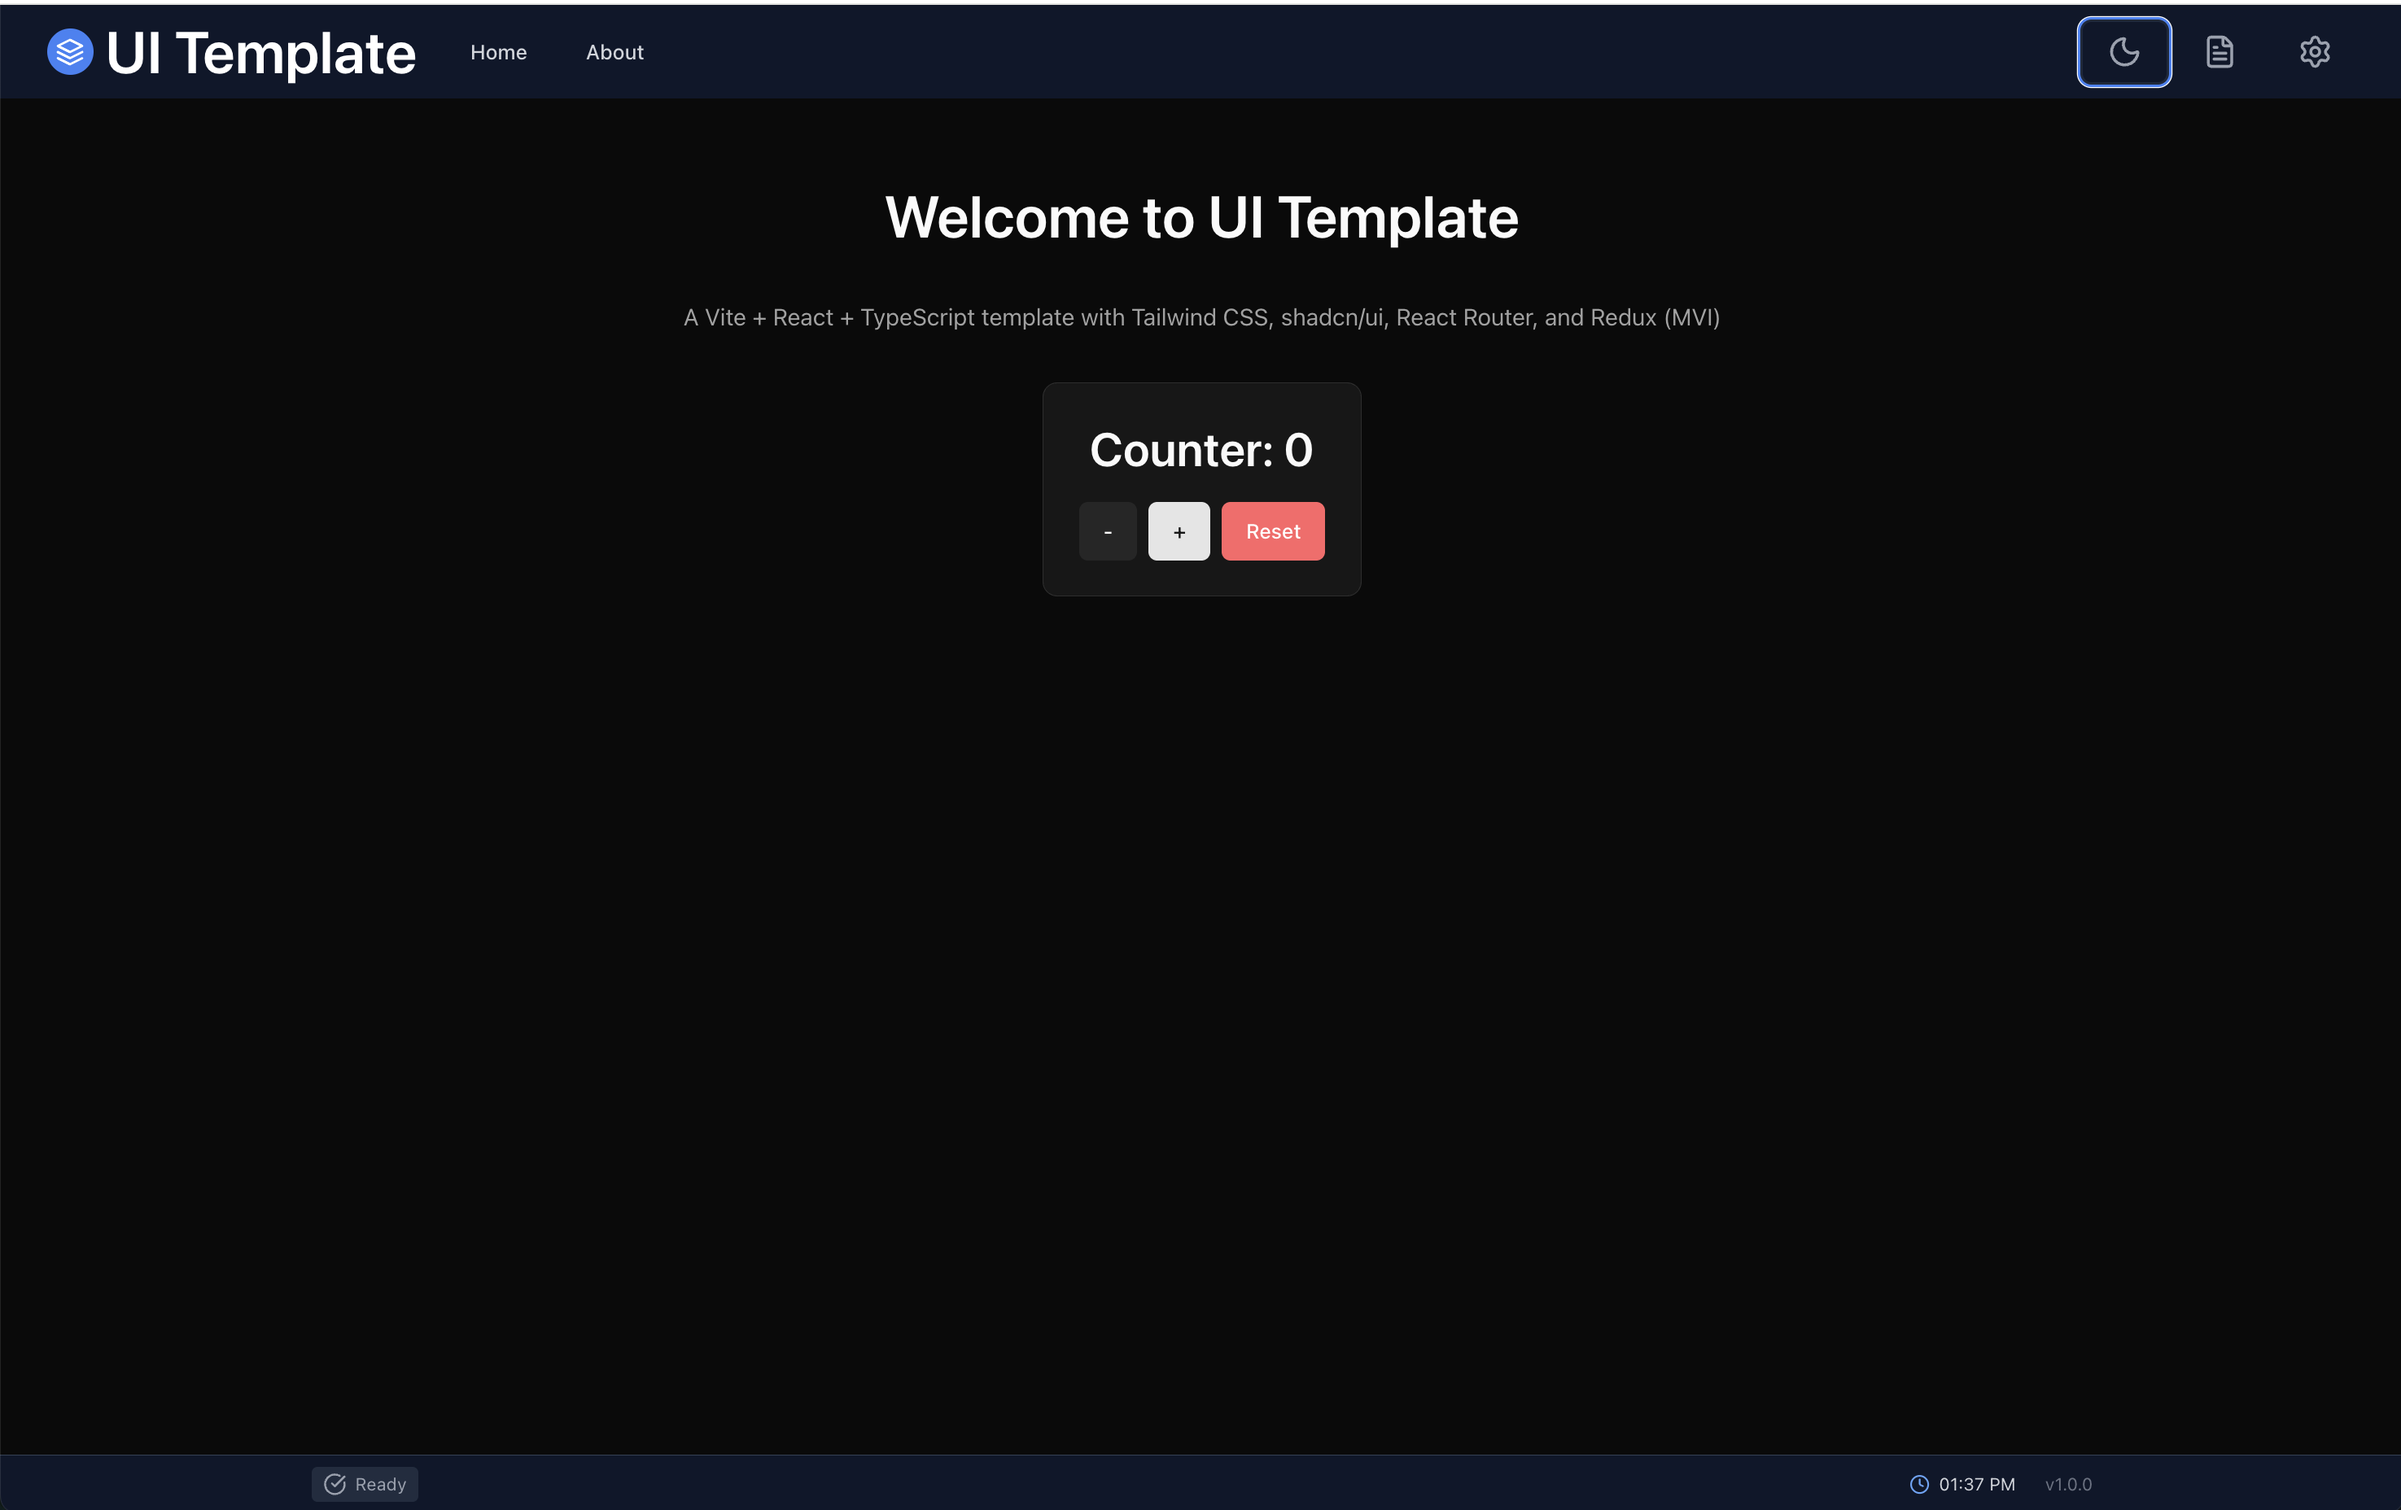
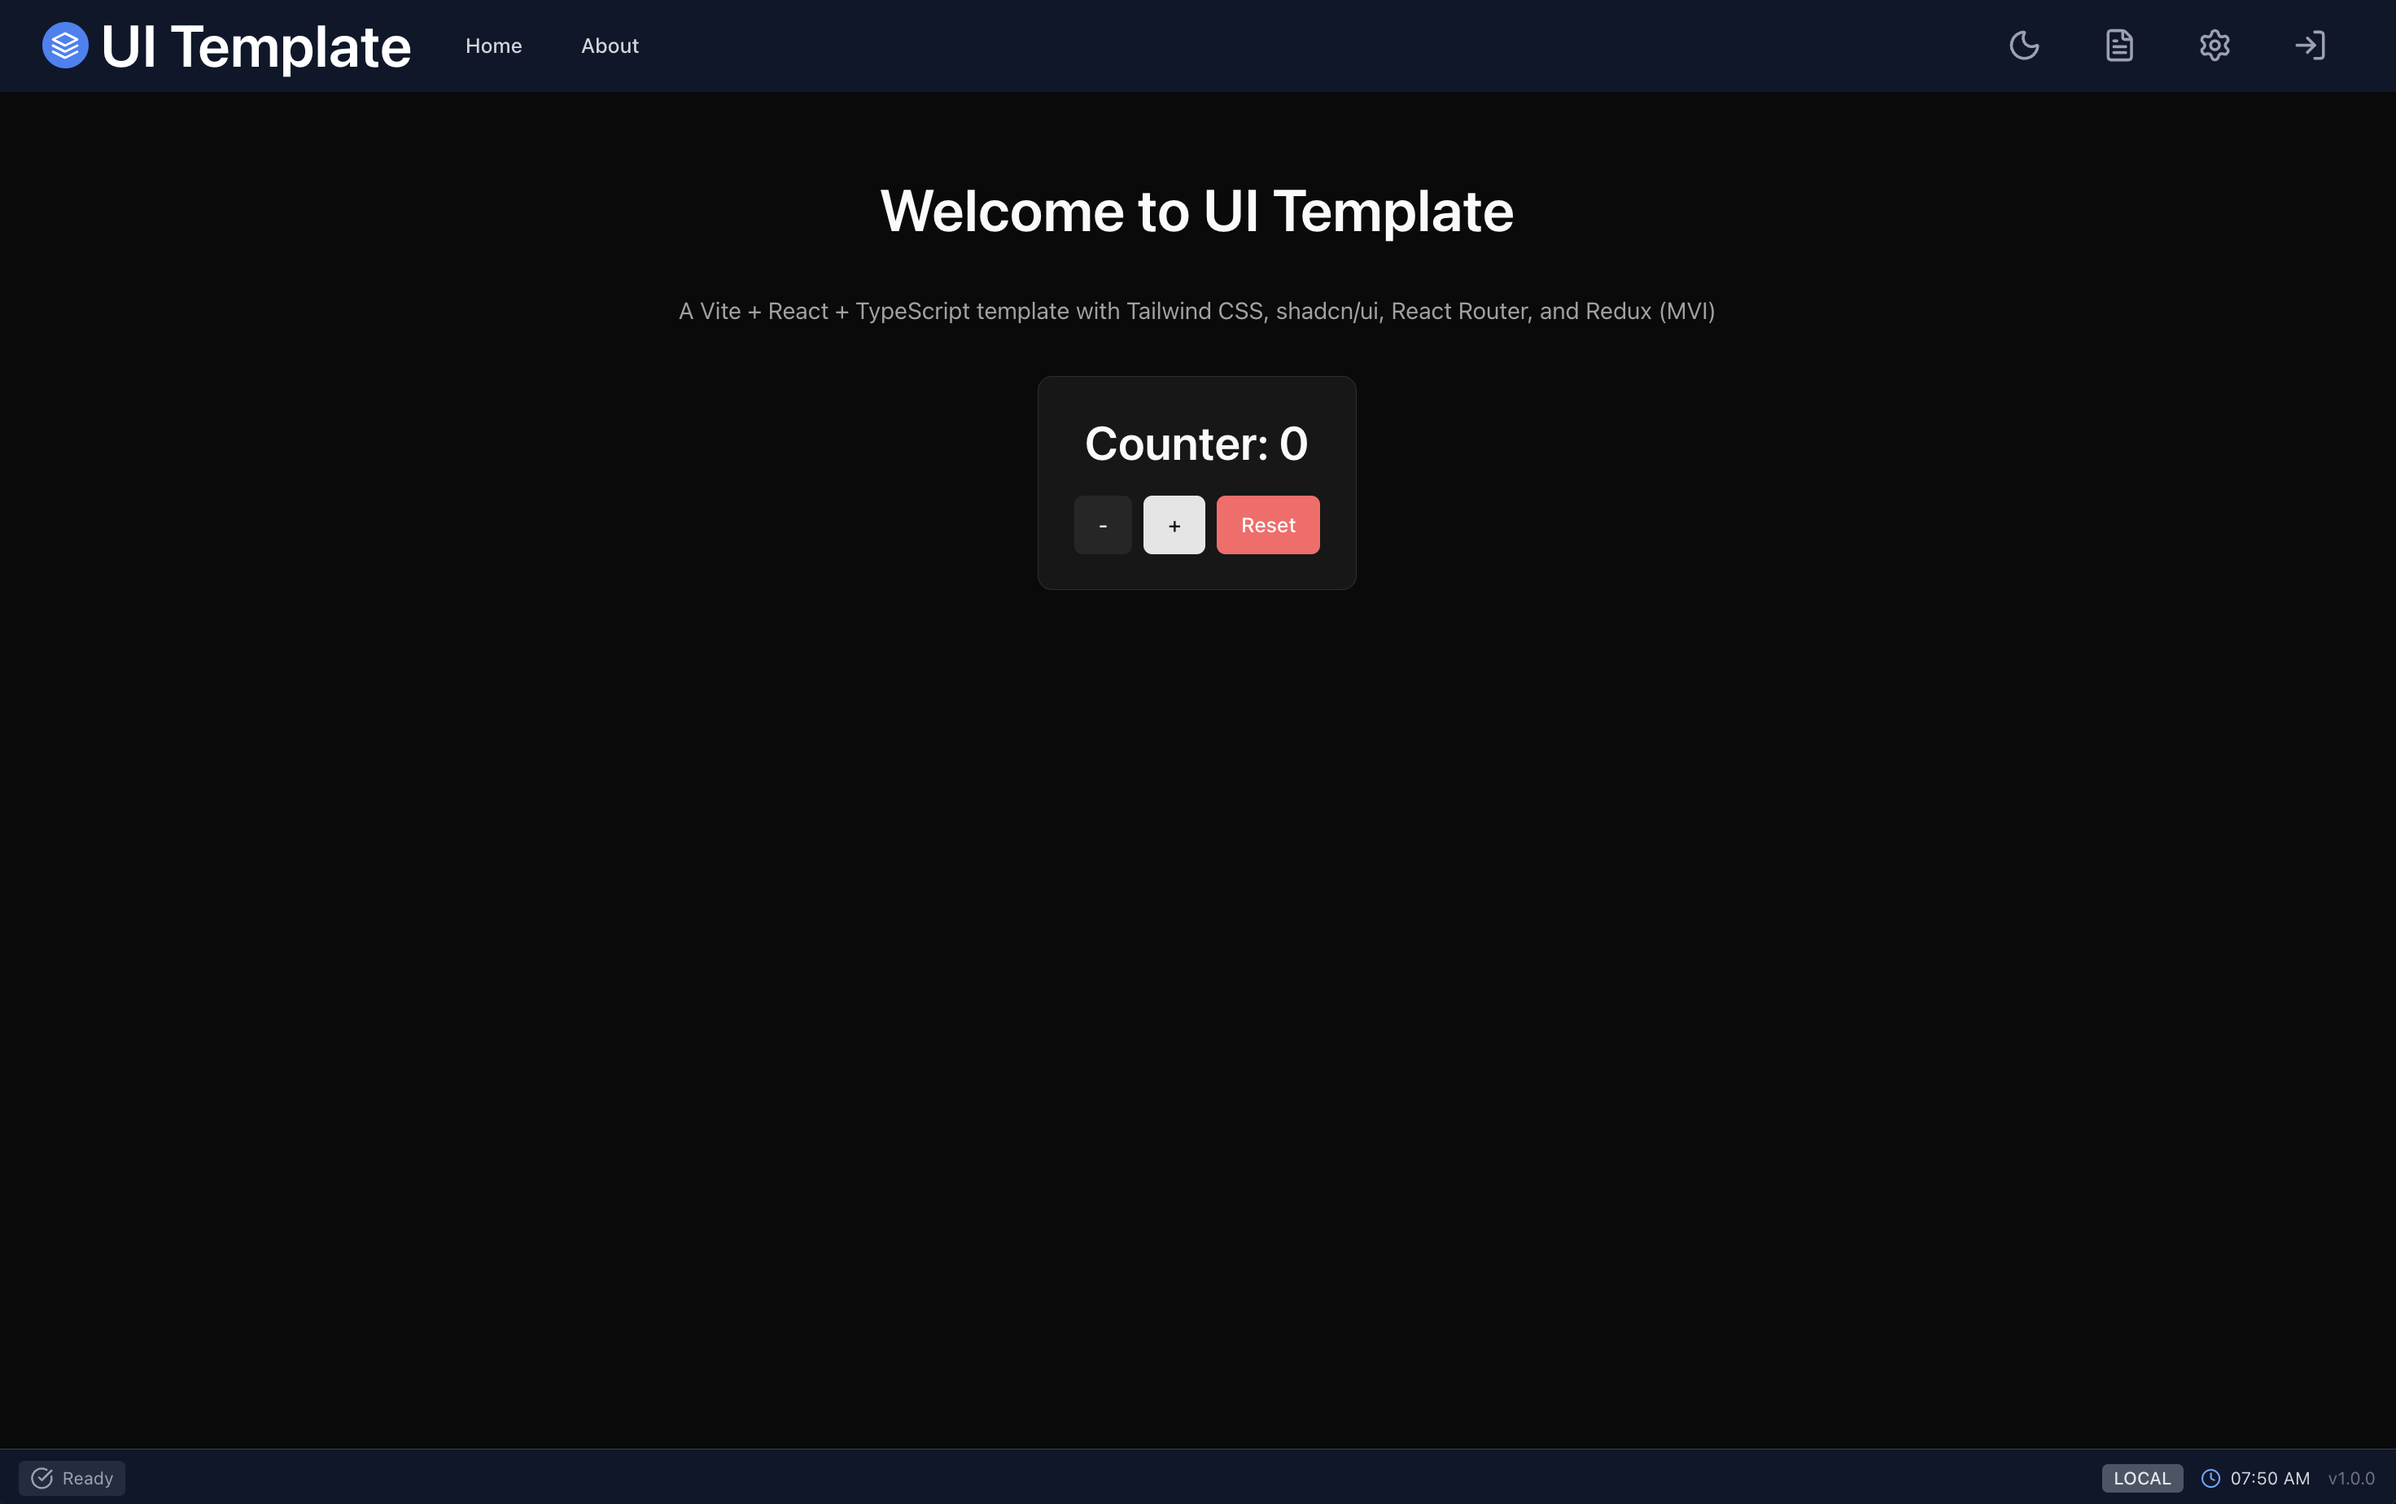
feat: version handling and display (incl. regions)

diff --git a/src/components/layout/BottomBar.tsx b/src/components/layout/BottomBar.tsx
@@ -2,12 +2,14 @@ import React from 'react';
 import { Clock, CheckCircle, AlertCircle, Loader2 } from 'lucide-react';
 
 export type StatusType = 'idle' | 'loading' | 'success' | 'error';
+export type EnvironmentType = 'local' | 'dev' | 'int' | 'prod' | string;
 
 interface BottomBarProps {
   className?: string;
   status?: StatusType;
   statusMessage?: string;
   version?: string;
+  environment?: EnvironmentType;
   showClock?: boolean;
 }
 
@@ -16,9 +18,23 @@ export function BottomBar({
   status = 'idle',
   statusMessage = '',
   version = '1.0.0',
+  environment = 'local',
   showClock = true,
 }: BottomBarProps) {
   const [currentTime, setCurrentTime] = React.useState(new Date());
+
+  const getEnvironmentBadge = () => {
+    const envLower = environment.toLowerCase();
+    const envConfig: Record<string, { label: string; bgColor: string; textColor: string }> = {
+      local: { label: 'LOCAL', bgColor: 'bg-gray-600', textColor: 'text-gray-200' },
+      dev: { label: 'DEV', bgColor: 'bg-blue-600', textColor: 'text-blue-100' },
+      int: { label: 'INT', bgColor: 'bg-amber-600', textColor: 'text-amber-100' },
+      prod: { label: 'PROD', bgColor: 'bg-red-600', textColor: 'text-red-100' },
+    };
+    return envConfig[envLower] || { label: envLower.toUpperCase(), bgColor: 'bg-purple-600', textColor: 'text-purple-100' };
+  };
+
+  const envBadge = getEnvironmentBadge();
 
   React.useEffect(() => {
     if (!showClock) return;
@@ -66,25 +82,24 @@ export function BottomBar({
 
   return (
     <footer className={`bg-primary-800 dark:bg-primary-900 text-gray-300 border-t border-primary-700 shadow-md h-10 w-full ${className}`}>
-      <div className="mx-auto max-w-7xl px-2 sm:px-6 lg:px-8 h-full flex items-center justify-between gap-2 overflow-hidden">
-        {/* Left side - Status indicators */}
-        <div className="flex items-center gap-3 flex-shrink-0">
-          {/* Status */}
-          <div className="flex items-center gap-1.5 px-2 py-1 rounded bg-primary-700/50">
-            {getStatusIcon()}
-            <span className={`text-xs ${getStatusColor()}`}>
-              {statusMessage || (status === 'idle' ? 'Ready' : status.charAt(0).toUpperCase() + status.slice(1))}
-            </span>
-          </div>
+      <div className="px-4 h-full flex items-center justify-between">
+        {/* Left side - Status indicator */}
+        <div className="flex items-center gap-1.5 px-2 py-1 rounded bg-primary-700/50">
+          {getStatusIcon()}
+          <span className={`text-xs ${getStatusColor()}`}>
+            {statusMessage || (status === 'idle' ? 'Ready' : status.charAt(0).toUpperCase() + status.slice(1))}
+          </span>
         </div>
 
-        {/* Center - Any additional info can go here */}
-        <div className="flex-1" />
+        {/* Right side - Environment, Clock and version */}
+        <div className="flex items-center gap-3">
+          {/* Environment Badge */}
+          <div className={`px-2 py-0.5 rounded text-xs font-medium ${envBadge.bgColor} ${envBadge.textColor}`}>
+            {envBadge.label}
+          </div>
 
-        {/* Right side - Clock and version */}
-        <div className="flex items-center gap-3 flex-shrink-0">
           {showClock && (
-            <div className="flex items-center gap-1.5 px-2 py-1 rounded">
+            <div className="flex items-center gap-1.5">
               <Clock className="w-3.5 h-3.5 text-accent-400" />
               <span className="text-xs text-gray-300 whitespace-nowrap">
                 {formatTime(currentTime)}
@@ -93,7 +108,7 @@ export function BottomBar({
           )}
 
           {/* Version */}
-          <div className="text-xs text-gray-500 hidden sm:block">
+          <div className="text-xs text-gray-500">
             v{version}
           </div>
         </div>

diff --git a/src/components/Layout.tsx b/src/components/Layout.tsx
@@ -4,12 +4,15 @@ import { BottomBar } from './layout/BottomBar'
 import { useState } from 'react'
 import type { StatusType } from './layout/BottomBar'
 
+// App version and environment from Vite define and env
+const appVersion = __APP_VERSION__;
+const appEnvironment = import.meta.env.VITE_ENVIRONMENT || 'local';
+
 interface LayoutProps {
   appName?: string;
-  version?: string;
 }
 
-export function Layout({ appName = 'UI Template', version = '1.0.0' }: LayoutProps) {
+export function Layout({ appName = 'UI Template' }: LayoutProps) {
   const [status] = useState<StatusType>('idle')
   const [statusMessage] = useState('')
 
@@ -30,7 +33,8 @@ export function Layout({ appName = 'UI Template', version = '1.0.0' }: LayoutPro
         className="sticky bottom-0 z-50"
         status={status}
         statusMessage={statusMessage}
-        version={version}
+        version={appVersion}
+        environment={appEnvironment}
       />
     </div>
   )

diff --git a/src/vite-env.d.ts b/src/vite-env.d.ts
@@ -1,0 +1,16 @@
+/// <reference types="vite/client" />
+
+declare const __APP_VERSION__: string;
+declare const __APP_BUILD_TIME__: string;
+
+interface ImportMetaEnv {
+  readonly VITE_ENVIRONMENT: string;
+  readonly VITE_API_URL: string;
+  readonly VITE_COGNITO_USER_POOL_ID: string;
+  readonly VITE_COGNITO_USER_POOL_CLIENT_ID: string;
+  readonly VITE_COGNITO_REGION: string;
+}
+
+interface ImportMeta {
+  readonly env: ImportMetaEnv;
+}

diff --git a/vite.config.ts b/vite.config.ts
@@ -11,4 +11,8 @@ export default defineConfig({
       '@': path.resolve(__dirname, './src'),
     },
   },
+  define: {
+    __APP_VERSION__: JSON.stringify(process.env.npm_package_version || '0.0.0'),
+    __APP_BUILD_TIME__: JSON.stringify(new Date().toISOString()),
+  },
 })

diff --git a/docs/deployment-guide.md b/docs/deployment-guide.md
@@ -215,6 +215,93 @@ git push origin v1.0.0
    - `deploy-frontend`
    - `smoke-tests`
 
+## Version Management
+
+The application includes automatic version tracking that displays in the status bar alongside the environment indicator.
+
+### How Version Works
+
+The version number is sourced from `package.json` and injected at build time via Vite's `define` configuration:
+
+```typescript
+// vite.config.ts
+define: {
+  __APP_VERSION__: JSON.stringify(process.env.npm_package_version || '0.0.0'),
+  __APP_BUILD_TIME__: JSON.stringify(new Date().toISOString()),
+}
+```
+
+The status bar displays:
+- **Environment badge** (LOCAL/DEV/INT/PROD) - color-coded by environment
+- **Clock** - current time
+- **Version** - from package.json (e.g., v1.0.0)
+
+### Automatic Version Bumping
+
+When deploying via the SAM deploy scripts, the version is automatically incremented:
+
+```bash
+# These commands auto-bump patch version before deploying
+npm run sam:deploy:dev   # Bumps 1.0.0 → 1.0.1, then deploys
+npm run sam:deploy:int   # Bumps 1.0.1 → 1.0.2, then deploys
+npm run sam:deploy:prod  # Bumps 1.0.2 → 1.0.3, then deploys
+```
+
+### Manual Version Control
+
+For manual version management:
+
+```bash
+# Bump patch version (1.0.0 → 1.0.1)
+npm run version:patch
+
+# Bump minor version (1.0.0 → 1.1.0)
+npm run version:minor
+
+# Bump major version (1.0.0 → 2.0.0)
+npm run version:major
+
+# Then build and deploy manually
+npm run build
+```
+
+### CI/CD Version Handling
+
+The GitHub Actions workflow handles versioning automatically:
+
+1. **Build Phase**: Reads version from `package.json`
+2. **Environment Injection**: Sets `VITE_ENVIRONMENT` based on deployment target
+3. **Frontend Build**: Injects version and environment into the bundle
+
+```yaml
+# From .github/workflows/deploy.yml
+cat > .env << EOF
+VITE_ENVIRONMENT=$ENV
+EOF
+npm run build
+```
+
+### Environment Detection
+
+The environment is determined by:
+
+| Source | Variable | Example |
+|--------|----------|---------|
+| `.env` file | `VITE_ENVIRONMENT` | `local` |
+| CI/CD pipeline | Set automatically | `dev`, `int`, `prod` |
+| Build scripts | `npm run build:dev` | `dev` |
+
+### Status Bar Display
+
+The BottomBar component displays version and environment:
+
+| Environment | Badge Color | Example Display |
+|-------------|-------------|-----------------|
+| local | Gray | `[LOCAL] 10:30 AM v1.0.0` |
+| dev | Blue | `[DEV] 10:30 AM v1.0.1` |
+| int | Amber | `[INT] 10:30 AM v1.0.2` |
+| prod | Red | `[PROD] 10:30 AM v1.0.3` |
+
 ## Environment-Specific Configuration
 
 ### Development (dev)
@@ -441,11 +528,17 @@ aws s3 rm s3://<bucket-name> --recursive
 |---------|-------------|
 | `npm run dev` | Start local dev server |
 | `npm run build` | Build frontend |
+| `npm run build:dev` | Build with VITE_ENVIRONMENT=dev |
+| `npm run build:int` | Build with VITE_ENVIRONMENT=int |
+| `npm run build:prod` | Build with VITE_ENVIRONMENT=prod |
+| `npm run version:patch` | Bump patch version (x.x.0 → x.x.1) |
+| `npm run version:minor` | Bump minor version (x.0.x → x.1.0) |
+| `npm run version:major` | Bump major version (0.x.x → 1.0.0) |
 | `npm run sam:build` | Build Lambda functions |
 | `npm run sam:local` | Run Lambda locally |
-| `npm run sam:deploy:dev` | Deploy to dev |
-| `npm run sam:deploy:int` | Deploy to int |
-| `npm run sam:deploy:prod` | Deploy to prod |
+| `npm run sam:deploy:dev` | Auto-bump version + deploy to dev |
+| `npm run sam:deploy:int` | Auto-bump version + deploy to int |
+| `npm run sam:deploy:prod` | Auto-bump version + deploy to prod |
 
 ### Stack Outputs
 

diff --git a/README.md b/README.md
@@ -19,6 +19,7 @@ A production-ready React template with AWS serverless backend, authentication, a
 - **CI/CD**: GitHub Actions with multi-environment deployment
 - **Theming**: Light/Dark/System mode support
 - **Logging**: Configurable console logging with categories
+- **Version Tracking**: Auto-incrementing version with environment indicator in status bar
 
 ## Quick Start
 
@@ -87,11 +88,27 @@ ui-template/
 | `npm run server` | Start local API server only |
 | `npm run lint` | Run ESLint |
 | `npm run typecheck` | TypeScript type checking |
+| `npm run version:patch` | Bump patch version |
+| `npm run version:minor` | Bump minor version |
+| `npm run version:major` | Bump major version |
 | `npm run sam:build` | Build Lambda functions |
 | `npm run sam:local` | Run Lambda locally |
-| `npm run sam:deploy:dev` | Deploy to dev environment |
-| `npm run sam:deploy:int` | Deploy to int environment |
-| `npm run sam:deploy:prod` | Deploy to prod environment |
+| `npm run sam:deploy:dev` | Auto-bump version + deploy to dev |
+| `npm run sam:deploy:int` | Auto-bump version + deploy to int |
+| `npm run sam:deploy:prod` | Auto-bump version + deploy to prod |
+
+## Version & Environment
+
+The status bar displays the current environment and version:
+
+| Environment | Badge | When |
+|-------------|-------|------|
+| LOCAL | Gray | Local development |
+| DEV | Blue | Deployed to dev |
+| INT | Amber | Deployed to int/staging |
+| PROD | Red | Deployed to production |
+
+Version is automatically bumped on each SAM deploy. See the [Deployment Guide](./docs/deployment-guide.md#version-management) for details.
 
 ## Environment Configuration
 
